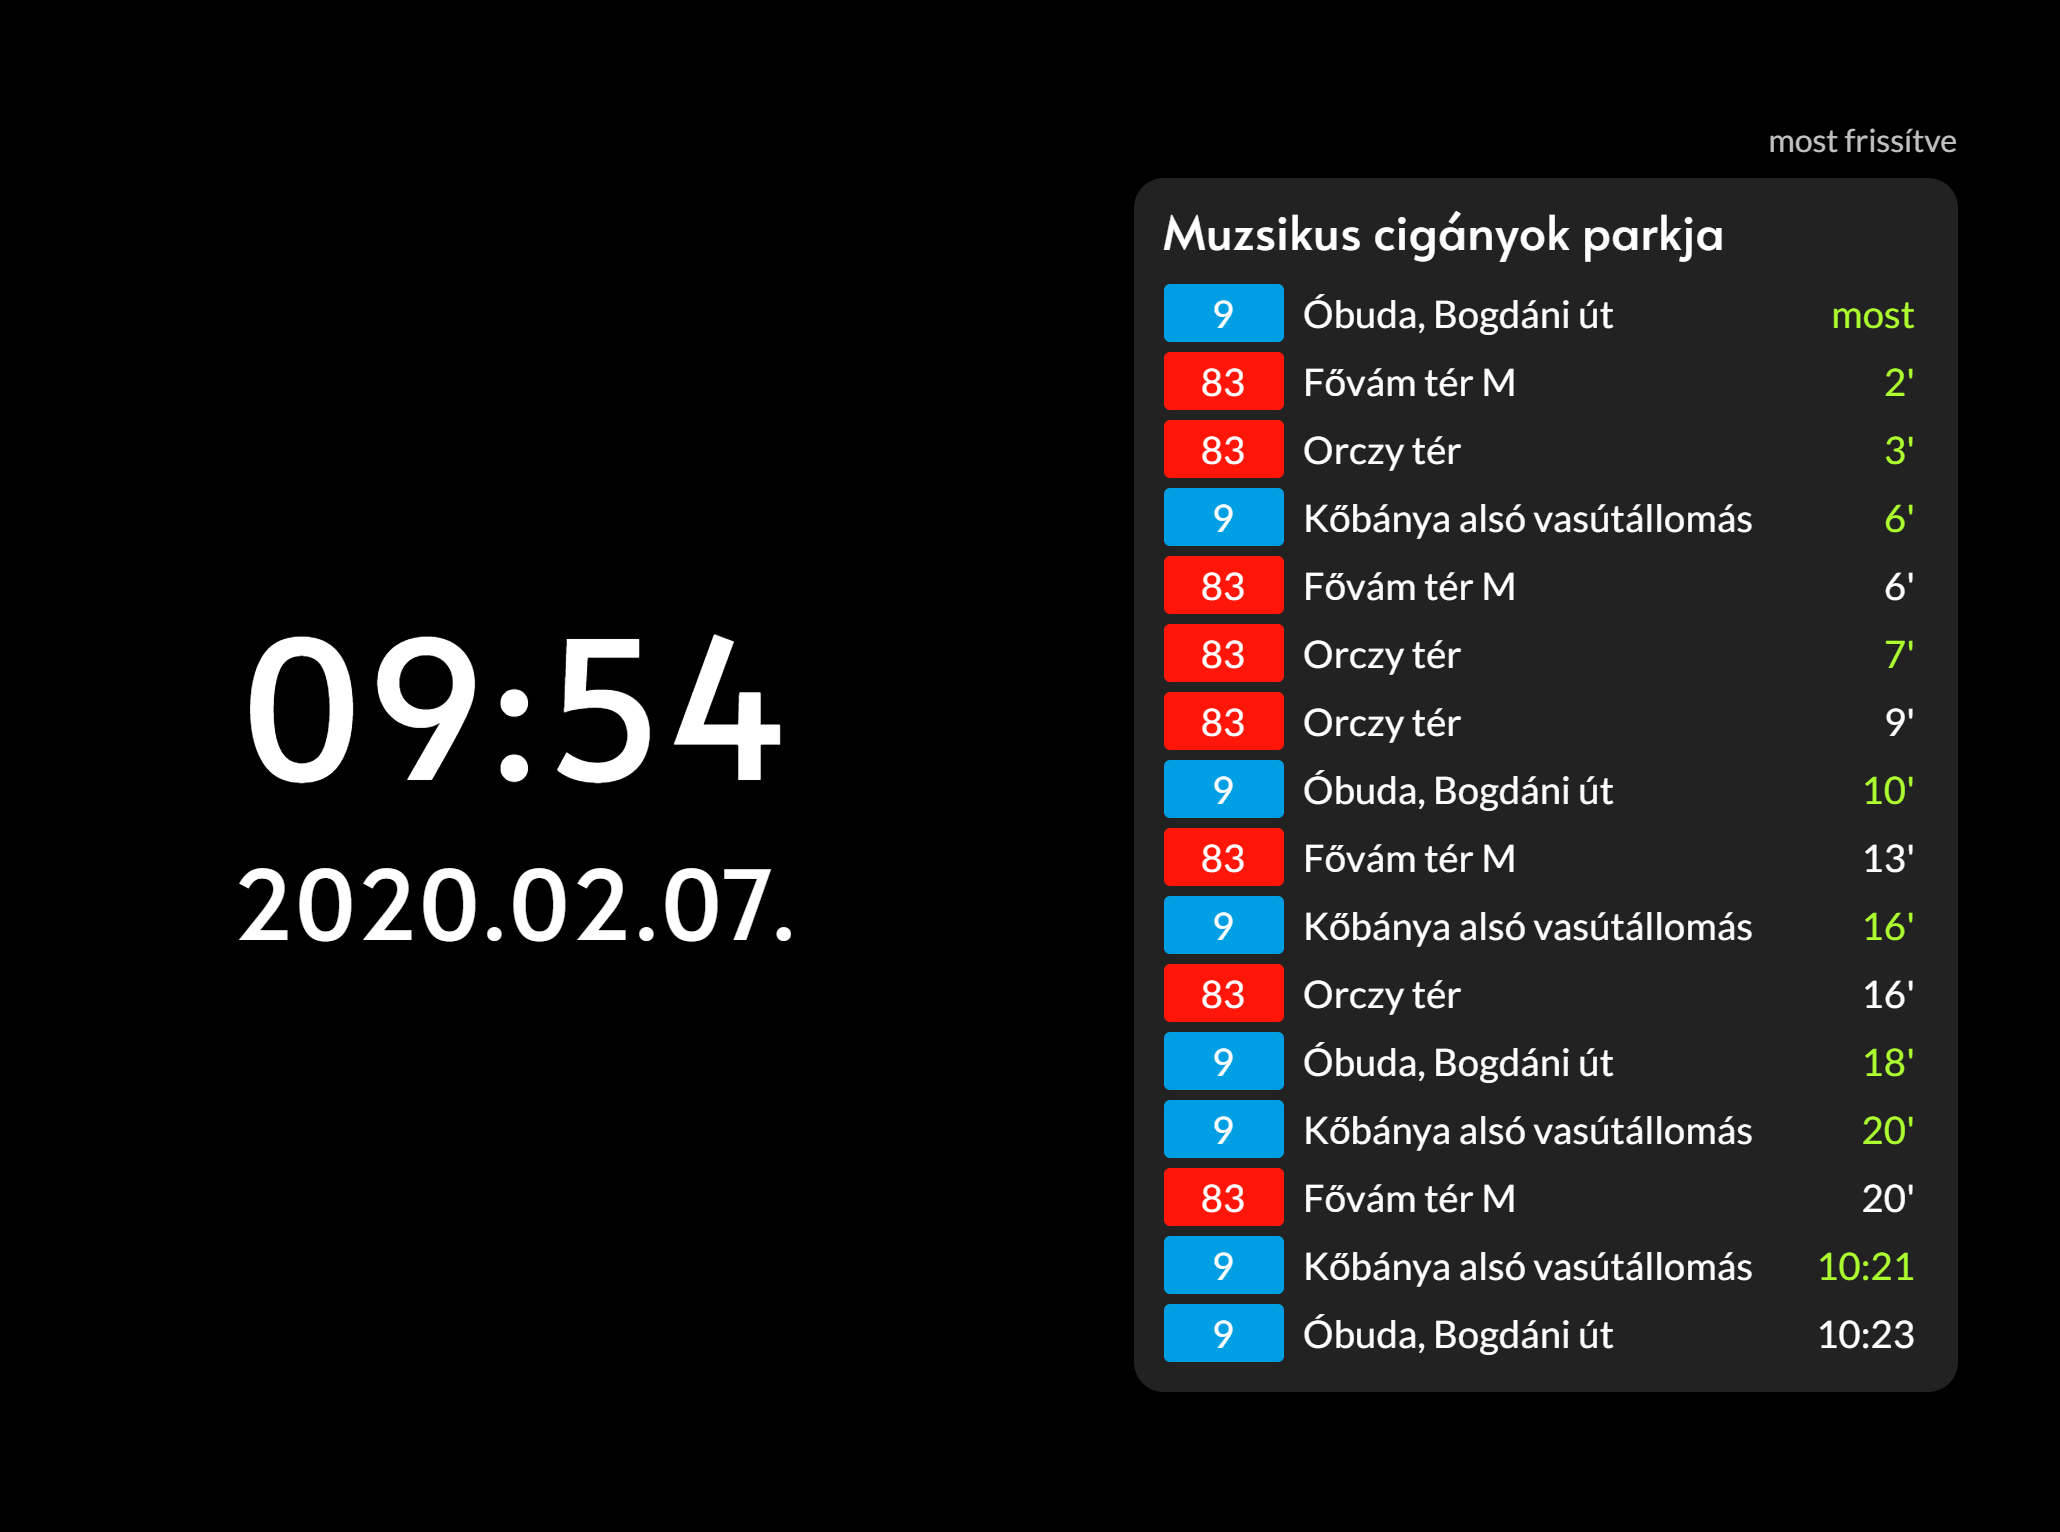
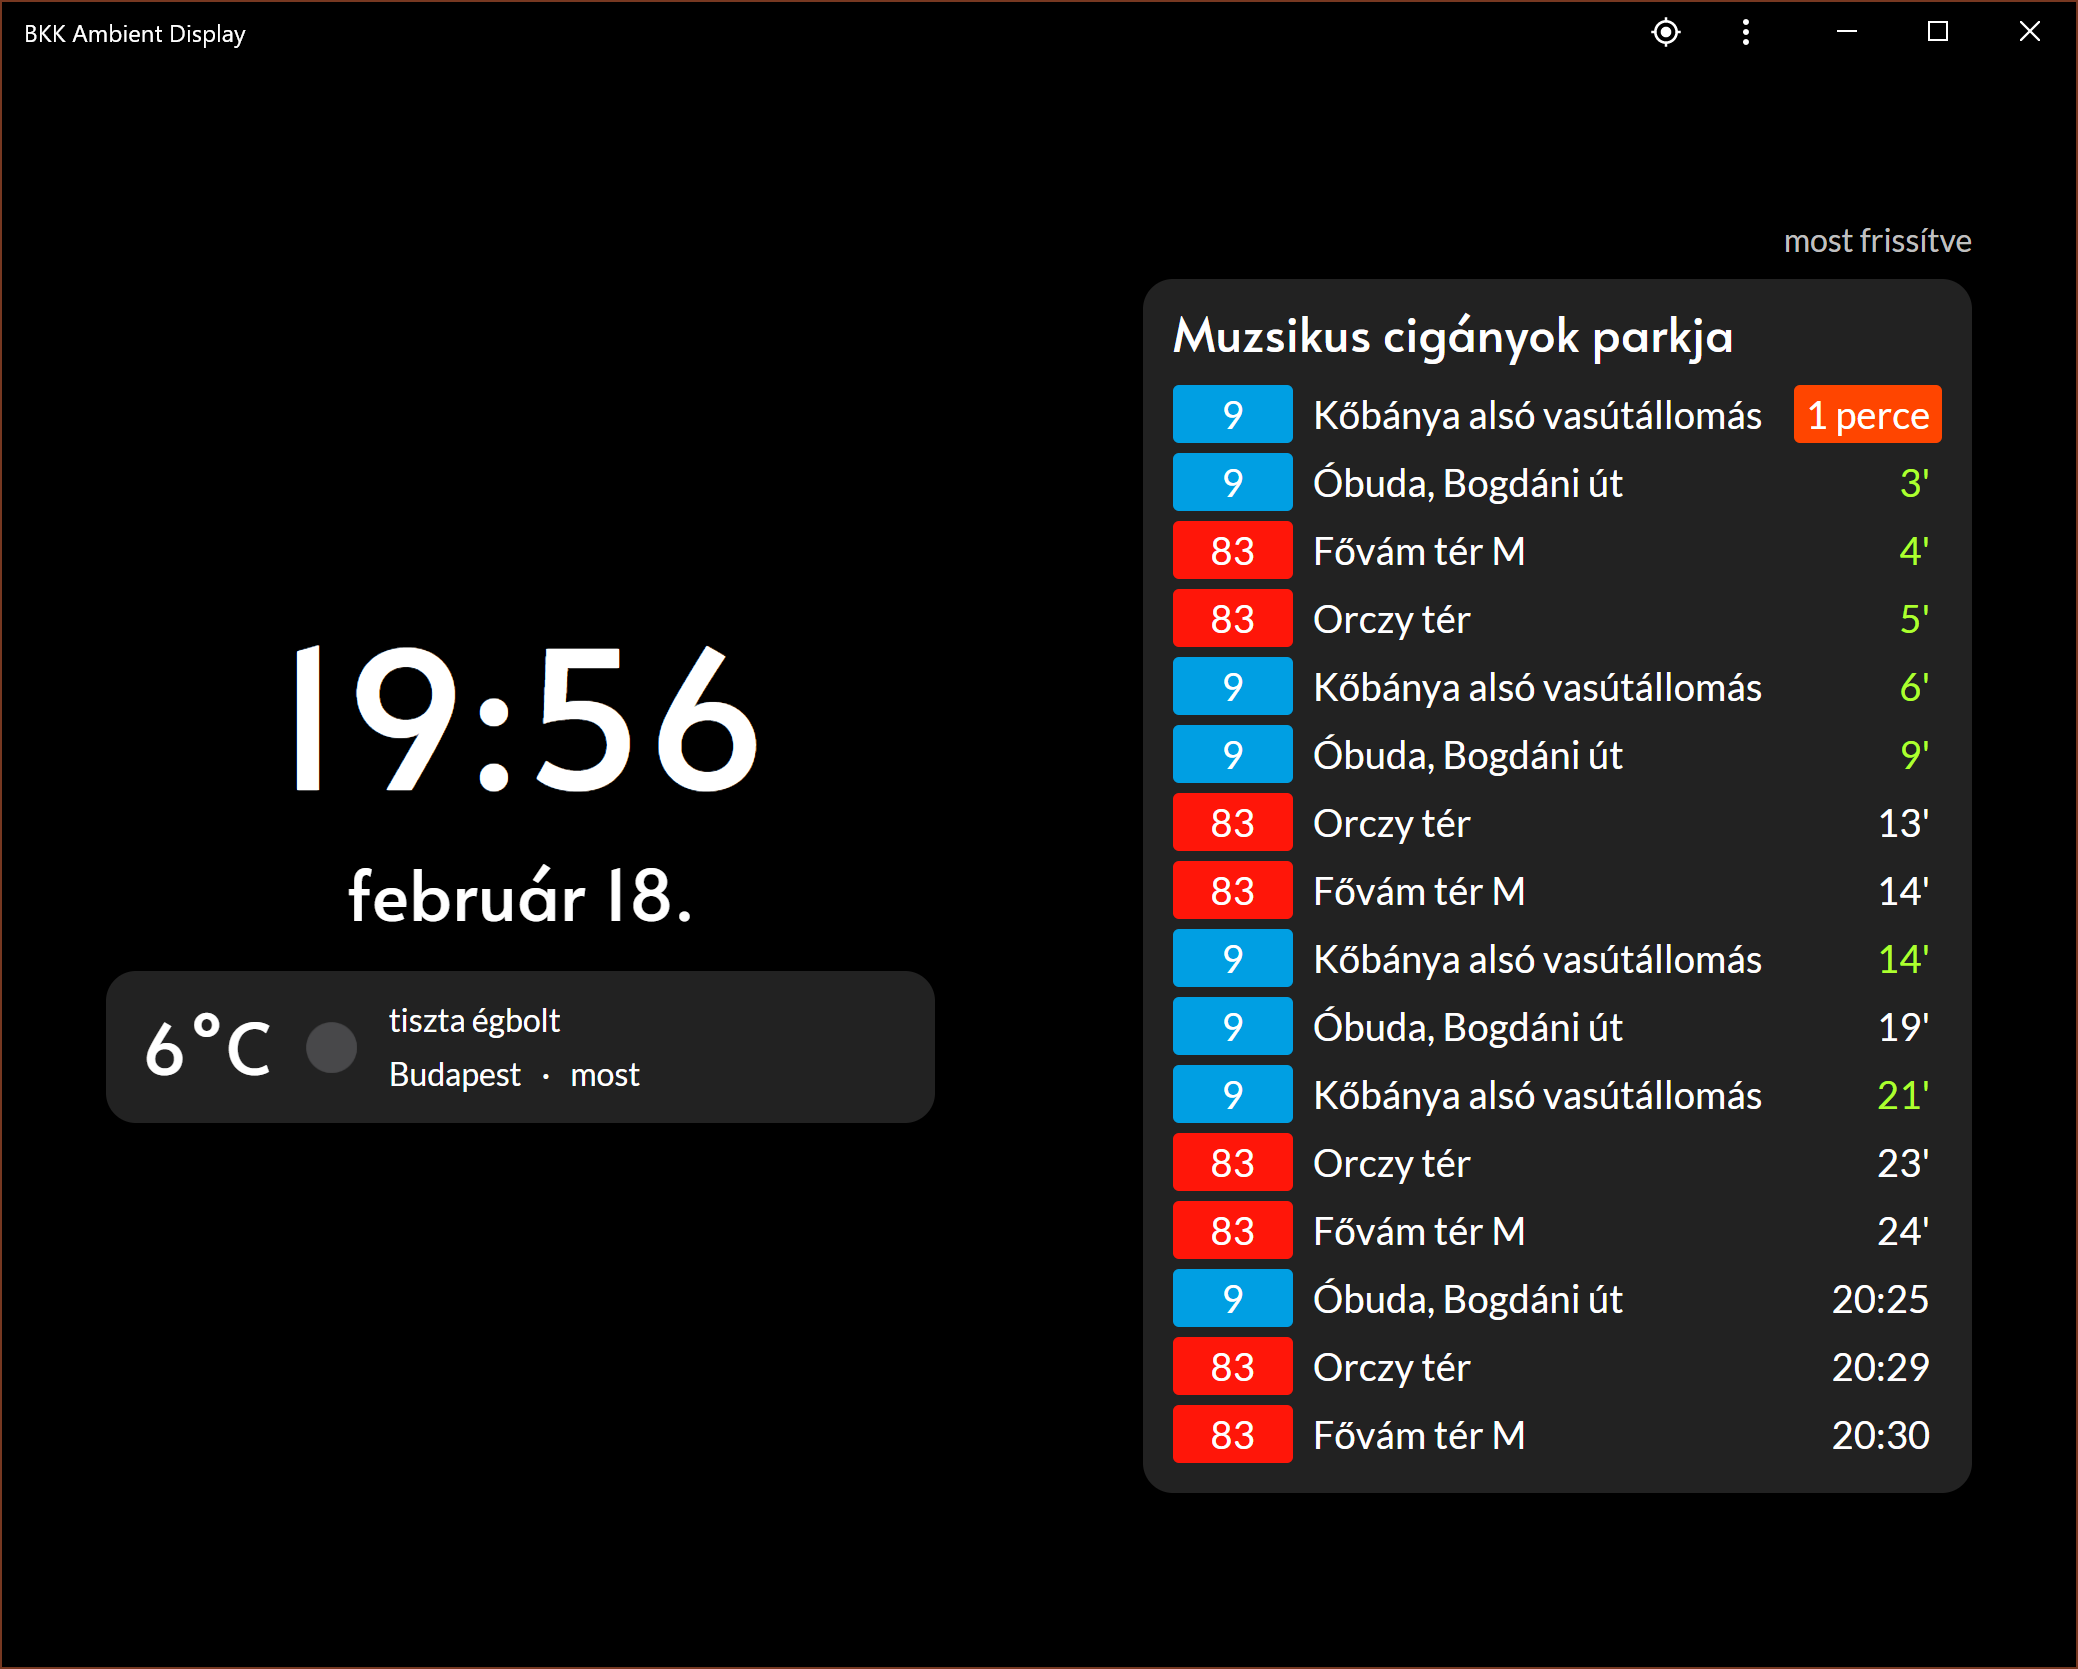
Weather and pwa support

diff --git a/js/weather.js b/js/weather.js
@@ -1,0 +1,18 @@
+function updateWeather(global) {
+    $.getJSON("back/weather.php",function(response){
+        console.log(response)
+        var weather = $("#weather").empty().html("<table><tr></tr></table>").find("tr")
+        $("<td rowspan='2'>").addClass("temp").html(Math.floor(response.main.temp) + "°C").appendTo(weather)
+        $("<td rowspan='2'>").addClass("icon").css("background-image","url(https://openweathermap.org/img/wn/"+response.weather[0].icon+"@2x.png)").appendTo(weather)
+        $("<td>").addClass("condition").html(response.weather[0].description).appendTo(weather)
+
+        $("<tr>").html($("<td>")
+                       .append($("<span>").addClass("location").html(response.name))
+                       .append($("<span>").addClass("updated dyn-timestamp").attr("timestamp",(new Date().getTime())+global.delay)))
+            .insertAfter(weather)
+        setTimeout(function(){
+            updateWeather(global)
+        },global.weatherFreq)
+    })
+    $("#weather .info").empty().append("<p>Could not get weather information</p>")
+}

diff --git a/main.css b/main.css
@@ -34,8 +34,42 @@ body {
 
 #date {
     font-family: 'Alata', sans-serif;
-    font-size: 3em;
+    font-size: 2.2em;
     text-align: center;
+}
+
+#weather {
+    margin: 15px 0px;
+    background-color: #222222;
+    border-radius: 15px;
+    padding: 10px 15px;
+}
+
+#weather .info p::before {
+    content: url(img/information.svg);
+    display: inline-block;
+    height: 1.3em;
+    width: 1.3em;
+    margin: 0px 6px;
+    vertical-align: sub;
+}
+
+#weather .temp {
+    font-family: 'Alata', sans-serif;
+    font-size: 2.2em;
+}
+
+#weather .icon {
+    width: 50px;
+    height: 50px;
+    background-size: contain;
+    background-position: center center;
+    background-repeat: no-repeat;
+}
+
+#weather .location::after {
+    content: "·";
+    margin: 0px 10px;
 }
 
 .ADFL-update::after {
@@ -97,4 +131,5 @@ body {
 .dep-time.past {
     color: white;
     background-color: orangered;
+}
 }

diff --git a/js/time.js b/js/time.js
@@ -50,7 +50,10 @@ function updateTime(global) {
     var time = lz(dt.getHours(), 2) + ':' + lz(dt.getMinutes(), 2);
     if (global.config.showSecs)
         time += ':' + lz(dt.getSeconds(), 2);
-    var date = dt.getFullYear() + '.' + lz(dt.getMonth() + 1, 2) + '.' + lz(dt.getDate(), 2) + '.';
+    var months = ["január","február","március","április","május","június","július","augusztus","szeptember","október","november","december"]
+    var date = global.config.fullDate ?
+        dt.getFullYear() + '.' + lz(dt.getMonth() + 1, 2) + '.' + lz(dt.getDate(), 2) + '.':
+        months[dt.getMonth()] + " " + lz(dt.getDate(), 2) + '.';
     global.DOMs.clock.html(time);
     global.DOMs.date.html(date);
     setTimeout(function () {

diff --git a/index.php b/index.php
@@ -1,22 +1,37 @@
 <!doctype html>
-<html>
+<html lang="hu">
     <head>
         <title>BKK Ambient Display</title><meta charset="utf-8">
         <meta name="viewport" content="width=device-width, initial-scale=1.0">
+        <meta name="description" content="BKK Ambient Display">
+        <meta name="theme-color" content="#000000">
+        
         <link href="https://fonts.googleapis.com/css?family=Alata|Lato&display=swap" rel="stylesheet">
         <script src="https://code.jquery.com/jquery-3.4.1.min.js" integrity="sha256-CSXorXvZcTkaix6Yvo6HppcZGetbYMGWSFlBw8HfCJo=" crossorigin="anonymous"></script>
         
-        <link rel="stylesheet" href="main.css">
-        <script src="js/main.js"></script>
-        <script src="js/time.js"></script>
-        <script src="js/bkk.js"></script>
+        <link rel="stylesheet" href="main.css?v=<?=time();?>">
+        <script src="js/main.js?v=<?=time();?>"></script>
+        <script src="js/time.js?v=<?=time();?>"></script>
+        <script src="js/bkk.js?v=<?=time();?>"></script>
+        <script src="js/weather.js?v=<?=time();?>"></script>
         
+        <link rel="icon" type="image/png" src="img/bad-icon-144.png">
+        <meta name="apple-mobile-web-app-capable" content="yes">
+        <meta name="apple-mobile-web-app-status-bar-style" content="black">
+        <meta name="apple-mobile-web-app-title" content="BKK Ambient Display">
+        <link rel="apple-touch-icon" href="img/bad-icon-192.png">
+        <link rel="manifest" href="manifest.json">
     </head>
     <body>
         <div class="fs-div"></div>
         <div class="time">
             <div id="clock"></div>
             <div id="date"></div>
+            <div id="weather">
+                <div class="info">
+                    <p>Getting weather info</p>
+                </div>
+            </div>
         </div><div id="bkk-container">
             <div class="ADFL-update dyn-timestamp"></div>
         </div>
@@ -36,8 +51,9 @@
                 time: {},
                 clientLoc: {},
                 timeFreq: 500,
-                srvTimeFreq: 600000, //10 min
-                locationFreq: 30000, //30 sec
+                srvTimeFreq: 10*60*1000, //10 min
+                locationFreq: 30*1000, //30 sec
+		weatherFreq: 15*60*1000, //15 min
                 delay: 0
             }
             
@@ -51,6 +67,7 @@
             updateTime(global);
             updateLocation(global);
             updateADFL(global);
+            updateWeather(global);
             updateLayout();
             $(window).resize(updateLayout);
         </script>

diff --git a/back/weather.php b/back/weather.php
@@ -1,0 +1,28 @@
+<?php
+require("config.php");
+
+require("sensitive.php"); // contains $weather_api_key
+
+$curl = curl_init();
+
+$query = http_build_query([
+    'appid' => $weather_api_key,
+    'lang' => "hu",
+    'units' => "metric",
+    'q' => "Budapest,HU"
+]);
+
+curl_setopt($curl, CURLOPT_URL, "http://api.openweathermap.org/data/2.5/weather?".$query);
+curl_setopt($curl, CURLOPT_CUSTOMREQUEST, "GET");
+curl_setopt($curl, CURLOPT_HTTPHEADER, array(
+    
+));
+curl_setopt($curl, CURLOPT_RETURNTRANSFER, true);
+
+$curl_output = curl_exec($curl);
+curl_close($curl);
+
+$response = json_decode($curl_output,true);
+
+echo json_encode($response,JSON_PRETTY_PRINT);
+?>

diff --git a/README.md b/README.md
@@ -1,7 +1,11 @@
 # BKK Ambient Display
 Web browser ambient display with the nearest departures of BKK (Budapest public transport company) buses and trams. 
 
-# How to use
+## New
+ * Weather conditions for Budapest
+ * [PWA](https://developers.google.com/web/progressive-web-apps) support
+
+## How to use
 Clone to your web server (or localhost with XAMPP/LAMPP), and open in browser.
 
 ![Screenshot](bad_screenshot.png)
